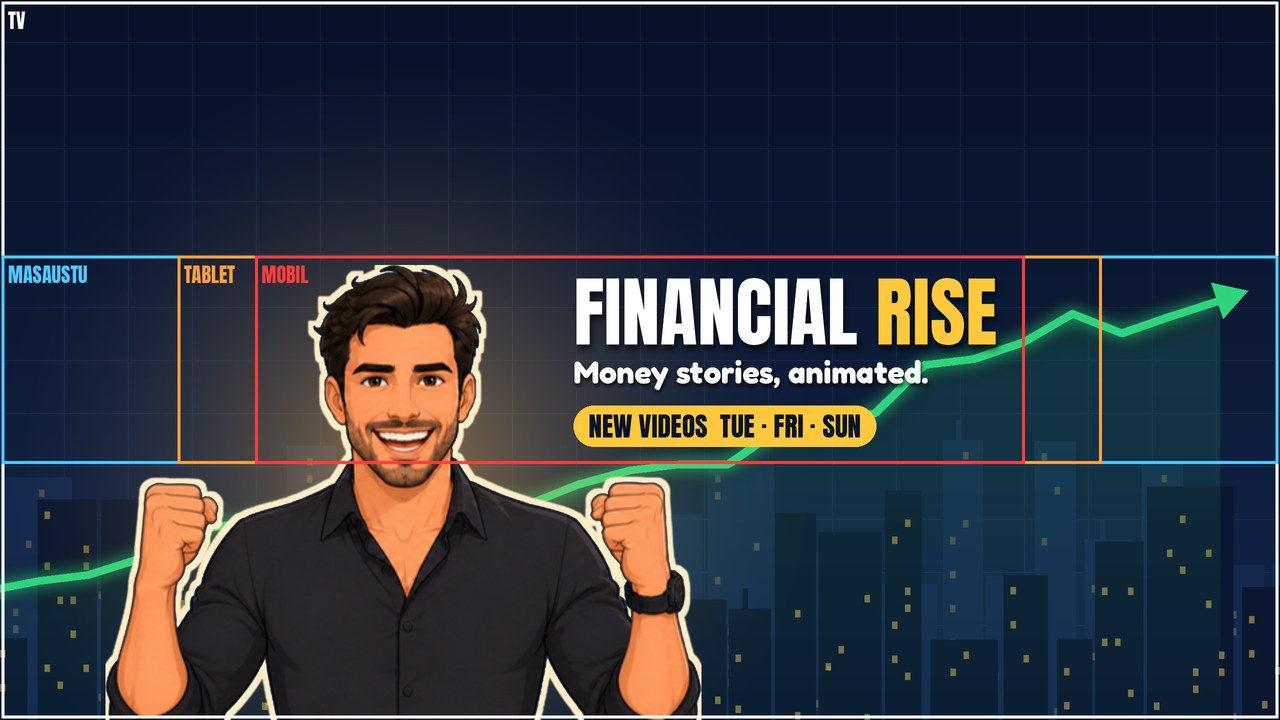
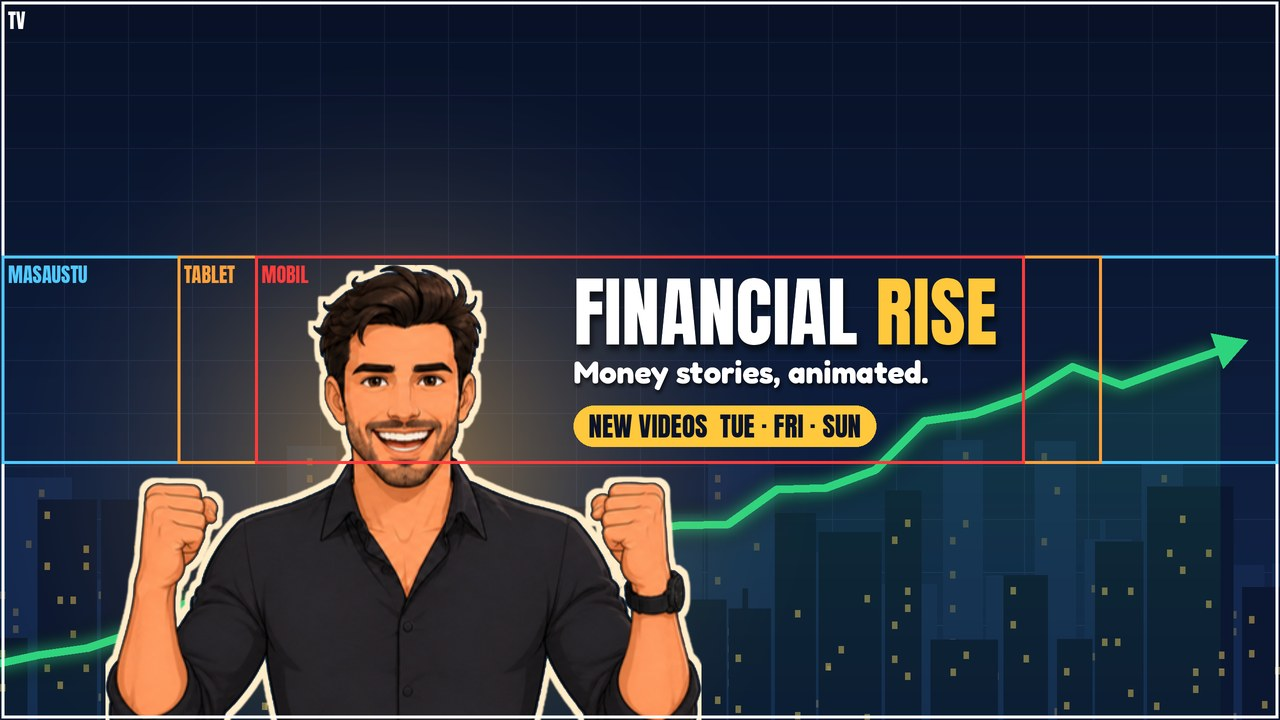
Kanal ayarları uygulandı: yeni açıklama, anahtar kelimeler, dil en, ülke TR (YPP için ikamet)
Claude-Session: https://claude.ai/code/session_019bCNGEBBQaepmiQNuPNZwX

Changed region(s): [[0.4062, 0.3972, 0.9688, 0.7639], [0.0, 0.7639, 0.125, 0.8556], [0.0, 0.8556, 0.0938, 0.9472]]

diff --git a/tools/gorsel/kanal-gorselleri.py b/tools/gorsel/kanal-gorselleri.py
@@ -118,7 +118,7 @@ def grafik_noktalari(seed, x0, x1, y0, y1, n=26):
     return list(zip(xs, ys))
 
 
-def arkaplan(seed=7, sahne=None, grafik=True):
+def arkaplan(seed=7, sahne=None, grafik=True, grafik_y=(1180, 600)):
     if sahne:  # Canva sahnesi: 16:9 → 2560x1440 kapla, hafif karart (metin kontrastı için)
         s = Image.open(sahne).convert("RGB")
         s = s.resize((W, int(s.height * W / s.width)), Image.LANCZOS) if s.width / s.height <= W / H else \
@@ -151,7 +151,7 @@ def arkaplan(seed=7, sahne=None, grafik=True):
             x += bw + int(r.integers(4, 22))
         bg = Image.alpha_composite(bg, lay)
     if grafik:
-        bg = Image.alpha_composite(bg, cizgi_grafik(seed))
+        bg = Image.alpha_composite(bg, cizgi_grafik(seed, y0=grafik_y[0], y1=grafik_y[1]))
     return bg
 
 
@@ -256,7 +256,7 @@ def metin_blogu(x0, x1, ust, slogan, ritim, hiza="sol", alt=None, ad_maks=210, r
 
 def banner(aday, a):
     if aday == "A":       # karakter solda (sevinçli) + şehir + yükselen grafik, metin sağda
-        bg = arkaplan(sahne=a.arkaplan)
+        bg = arkaplan(sahne=a.arkaplan, grafik_y=(1330, 700))   # grafik metnin altından geçer
         kar = kes(a.banner_karakter)
         bg, kk, kafa, _ = karakter_yerlestir(bg, kar, SX + 300, SY + 22, yukseklik=a.a_yukseklik)
         uc = None
@@ -463,7 +463,7 @@ def main():
     ap.add_argument("--profil-adaylar", default="P1,P2,P3")
     ap.add_argument("--kazanan-banner", default=None)
     ap.add_argument("--kazanan-profil", default=None)
-    ap.add_argument("--a-yukseklik", type=int, default=1180, help="A adayında karakter boyu (px); >918 ise tuval altından taşar")
+    ap.add_argument("--a-yukseklik", type=int, default=1140, help="A adayında karakter boyu (px); >918 ise tuval altından taşar")
     ap.add_argument("--esrgan", type=int, default=1)
     a = ap.parse_args()
     on = os.path.join(a.cikis, "onizleme"); os.makedirs(on, exist_ok=True)

diff --git a/tools/yayin/kanal.py b/tools/yayin/kanal.py
@@ -121,6 +121,7 @@ def main():
             s, _, b = api.istek(f"{api.API}/playlists?part=snippet,status", json.dumps(g).encode(),
                                 api._yetki(token, {"Content-Type": "application/json; charset=UTF-8"}))
             print(f"3) liste oluşturuldu: {l['baslik']} → {api._kontrol('playlists.insert', s, b)['id']}")
+        import time; time.sleep(15)  # channels.list güncellemeyi ~10-15 sn gecikmeyle döndürüyor (2026-10-26 ölçümü)
         print("Kontrol: " + json.dumps({kk: str(vv)[:60] for kk, vv in kanal_oku(token)["brandingSettings"]["channel"].items()},
                                        ensure_ascii=False))
         return 0

diff --git a/uretim/kanal-kimligi/mevcut-durum.md b/uretim/kanal-kimligi/mevcut-durum.md
@@ -16,3 +16,8 @@
 
 API ile değiştirilebilir: açıklama, anahtar kelimeler, ülke, varsayılan dil, banner (channelBanners.insert, ≥2048x1152, ≤6 MB, 16:9), kanal fragmanı, oynatma listeleri.
 API ile değiştirilemez: profil fotoğrafı, kanal adı, @tanıtıcı (Studio).
+
+## Uygulandı (2026-10-26, Niyazi talimatı "ayarların tamamını sen yap")
+- Açıklama (905 karakter, kanal-paketi.json), anahtar kelimeler (25 ifade), varsayılan dil `en` → channels.update ✅ (API okumasında ~15 sn sonra göründü).
+- Ülke **TR** bırakıldı: YPP uygunluğu kanal ülkesine bağlı ve içerik üreticinin programın açık olduğu ülkede yaşaması şart (support.google.com/youtube/answer/2976814, answer/72851). Videolarda coğrafi kısıt yok → küresel yayın; reklam geliri izleyicinin ülkesine göre.
+- Oynatma listeleri: ilgili ilk video yüklenince açılacak (boş liste yok). Banner: görsel hazır olunca. Eski 4 video: Niyazi kararı bekleniyor (öneri gizli).
